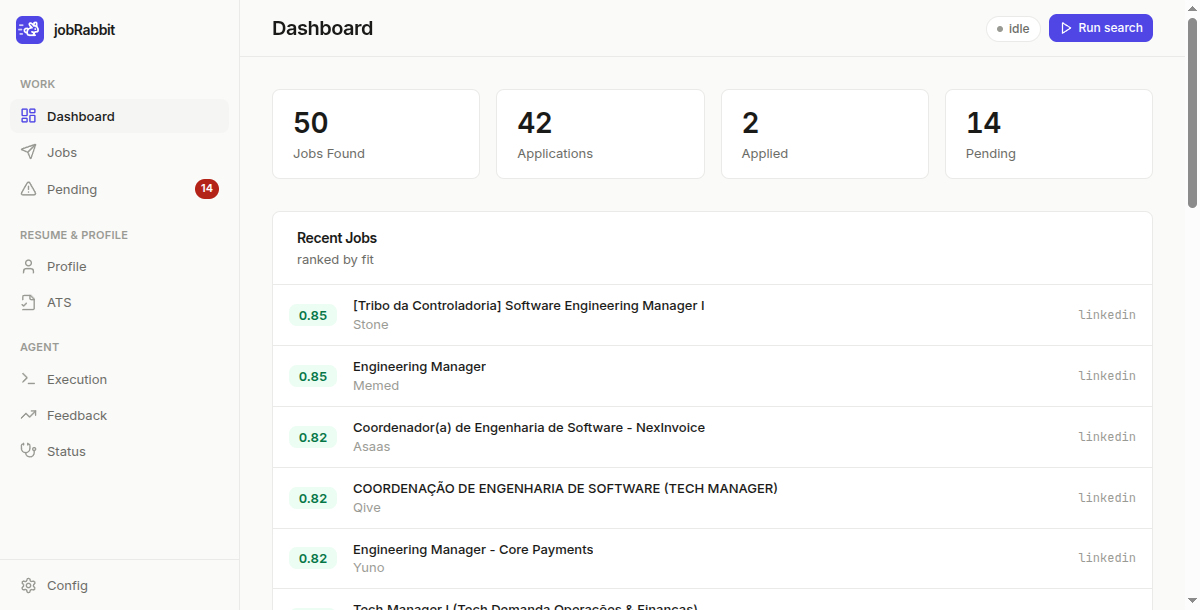
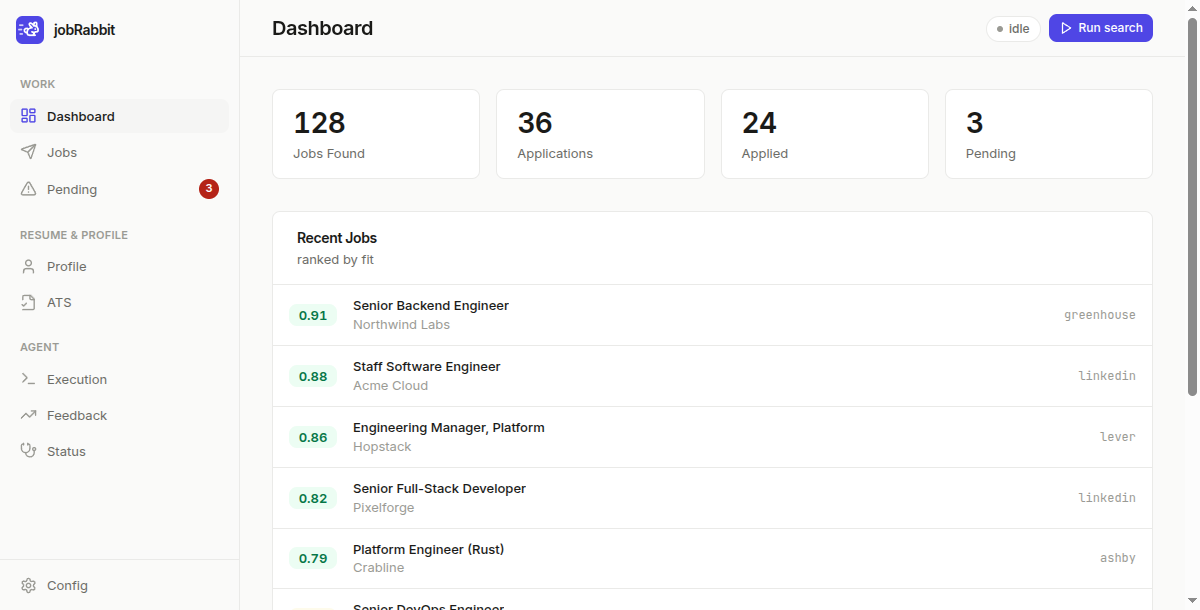
docs: replace README screenshots with mocked demo data
Screenshots are now captured against fully fake, English-only data
(mocked API responses) so no real jobs, companies or résumé details
appear in the repo. The pt-BR README reuses the same English images.

diff --git a/README.pt-BR.md b/README.pt-BR.md
@@ -26,8 +26,8 @@ roda em Linux, macOS e Windows, com uma **interface web** caprichada (padrão) o
 
 <div align="center">
 
-<img src="dashboard-light-ptbr.png" width="49%" alt="Dashboard"> <img src="applications-light-ptbr.png" width="49%" alt="Vagas e candidaturas">
-<img src="ats-light-ptbr.png" width="49%" alt="Avaliação ATS do currículo"> <img src="pending-light-ptbr.png" width="49%" alt="Pendências com humano no comando">
+<img src="dashboard-light.png" width="49%" alt="Dashboard"> <img src="applications-light.png" width="49%" alt="Vagas e candidaturas">
+<img src="ats-light.png" width="49%" alt="Avaliação ATS do currículo"> <img src="pending-light.png" width="49%" alt="Pendências com humano no comando">
 
 </div>
 
